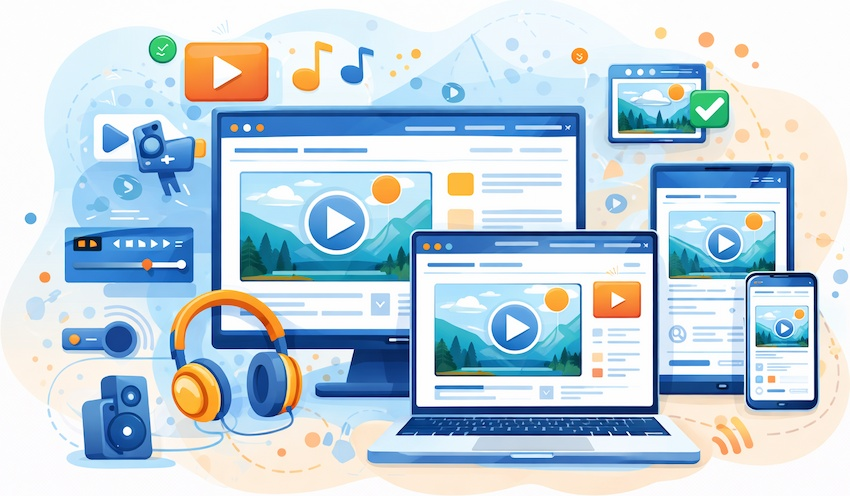
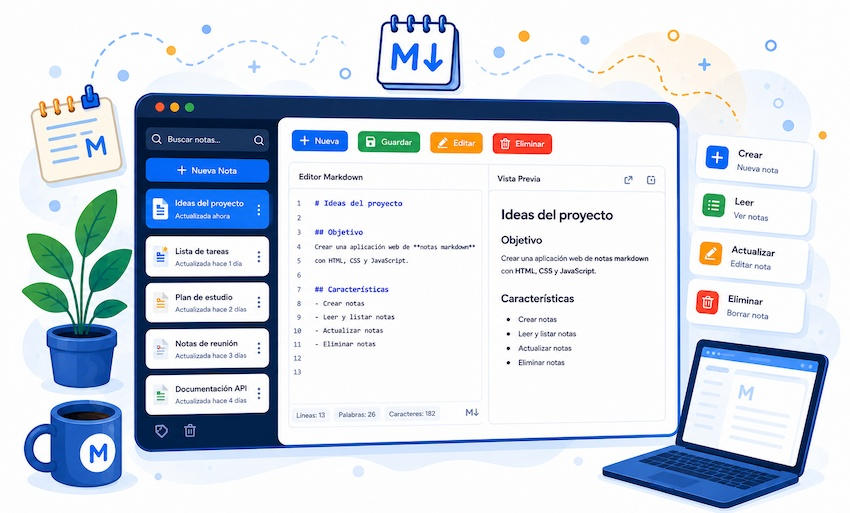
refactor: update project titles for clarity and remove unnecessary tags

diff --git a/index.html b/index.html
@@ -343,7 +343,7 @@
 
                 <div class="project__body">
                   <h3 class="project__title">
-                    Landing Page - Contabilidad Florez
+                    Landing Page de Contabilidad
                   </h3>
 
                   <p class="project__resume">
@@ -494,8 +494,6 @@
                     <li class="tag">HTML5</li>
                     <li class="tag">CSS3</li>
                     <li class="tag">JS</li>
-                    <li class="tag">localStorage</li>
-                    <li class="tag">marked.js</li>
                   </ul>
                 </div>
 
@@ -615,7 +613,7 @@
 
                 <div class="project__body">
                   <h3 class="project__title">
-                    Formulario de registro con Validaciones
+                    Formulario HTML con Validaciones
                   </h3>
 
                   <p class="project__resume">